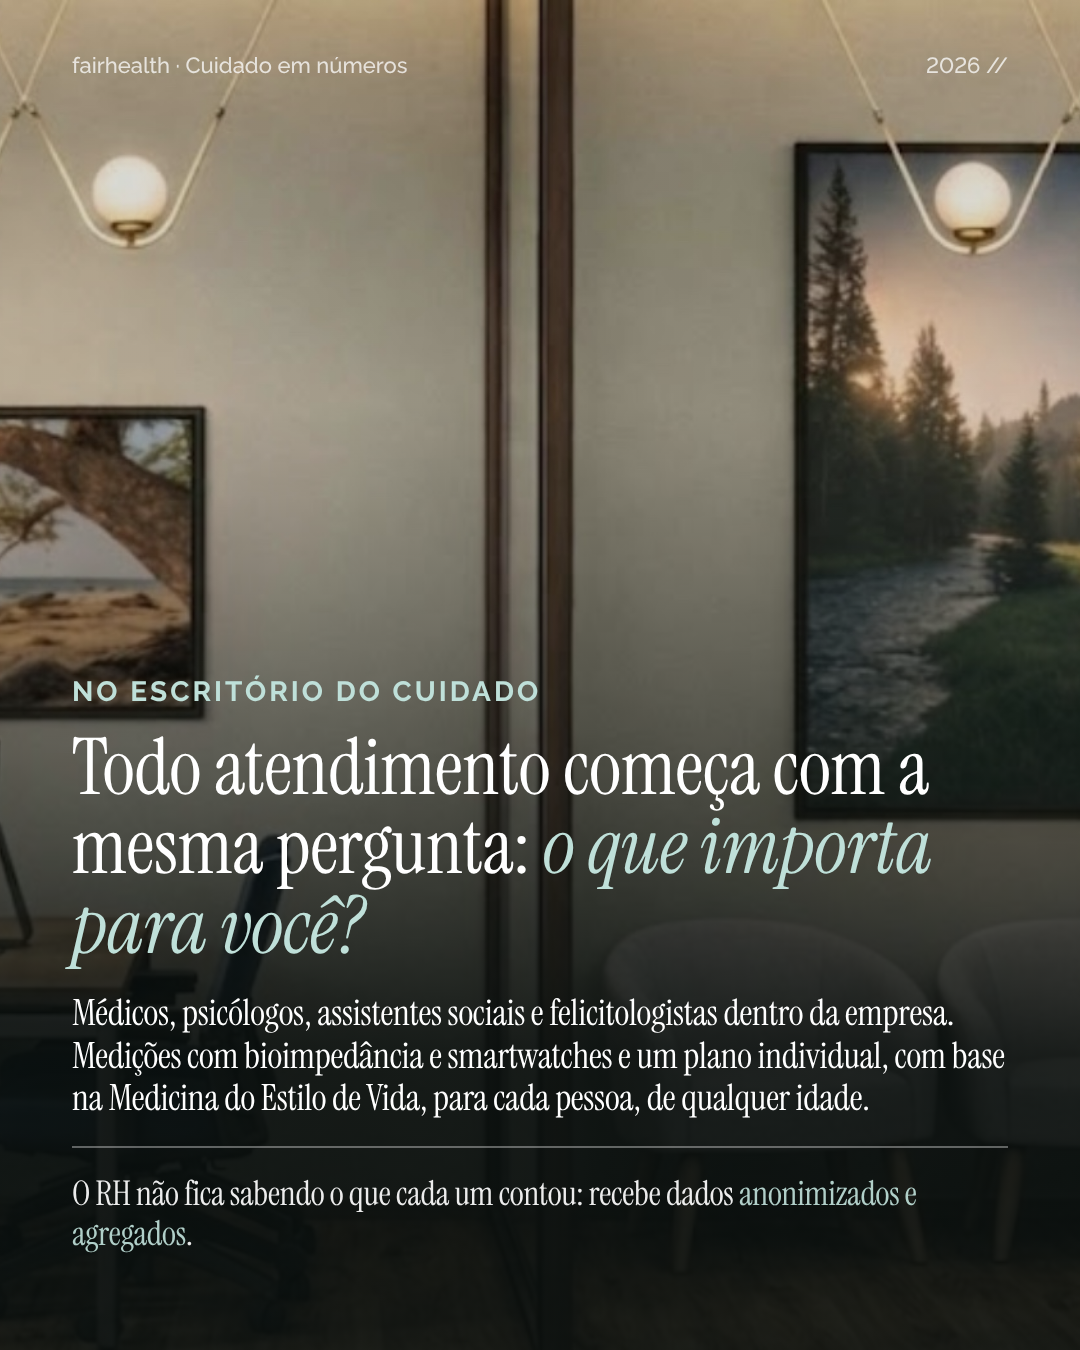
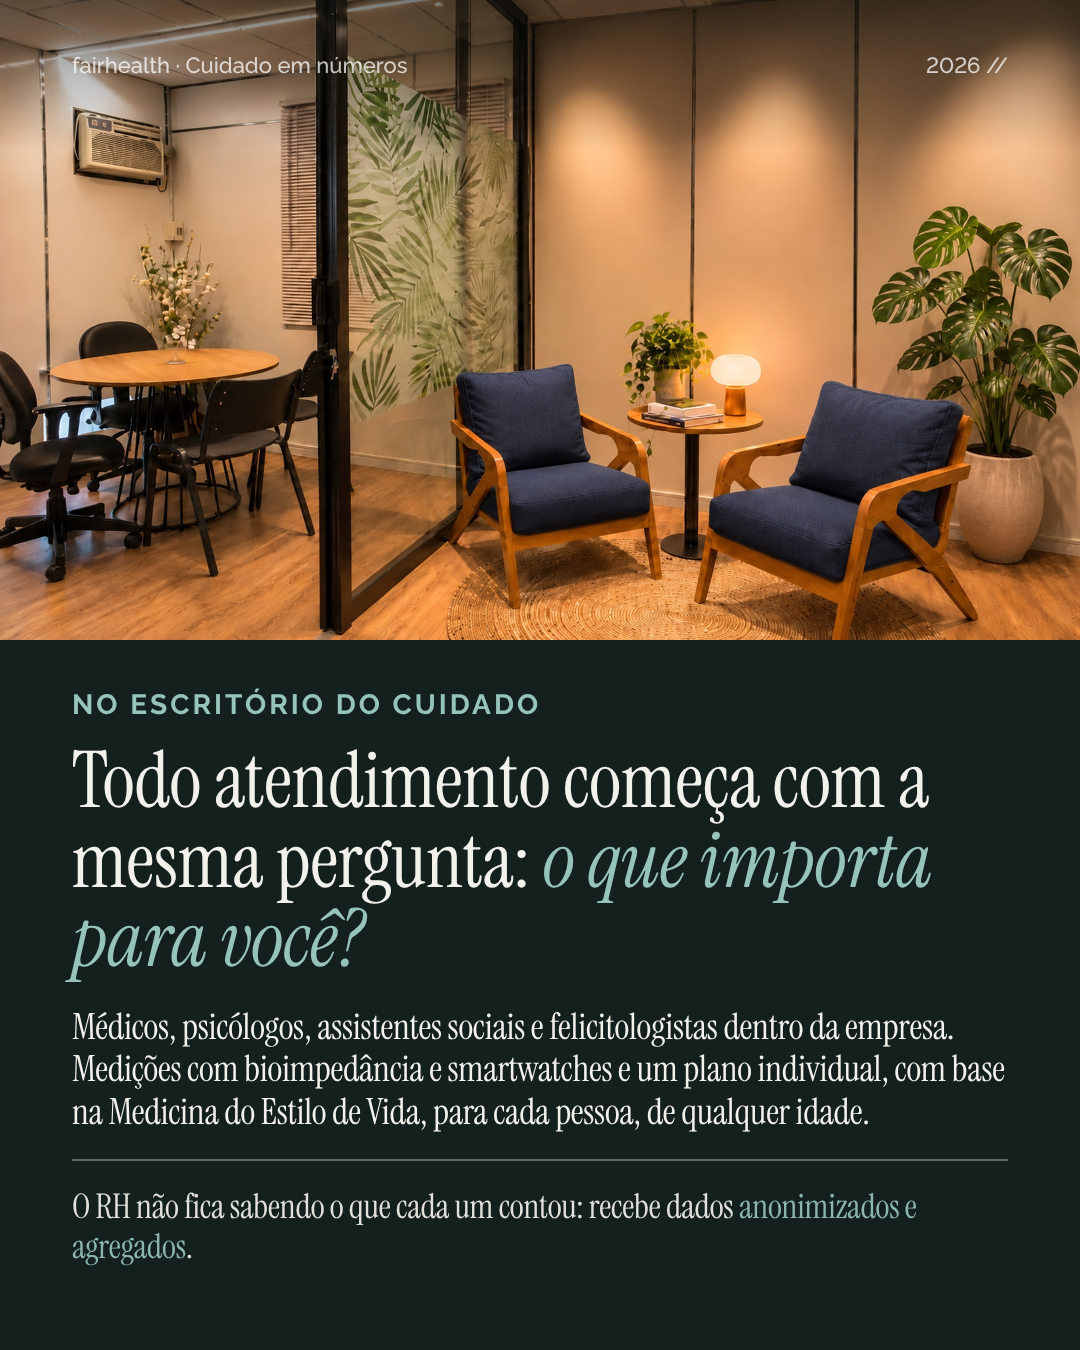
25/11 Geração Z: slide 7 com a foto real do Escritório do Cuidado numa faixa no alto
Claude-Session: https://claude.ai/code/session_01WTGmTeoCvP3mtmtt6rLzEQ

diff --git a/instagram/posts/geracao-z/slides.html b/instagram/posts/geracao-z/slides.html
@@ -111,10 +111,13 @@
   </div>
 </section>
 
-<!-- 7 · PRODUTO (16/11: junta o 7 e a parte do RH do 8; bioimpedância, smartwatches e MEV dentro do Escritório) -->
-<section class="slide gz foto" id="gz-07" style="background-image:url(../../marca/espaco/sala-atendimento-e-espera.jpg)">
-  <div class="topo"><span>fairhealth · Cuidado em números</span><span>2026 //</span></div>
-  <div class="bloco" style="bottom:96px">
+<!-- 7 · PRODUTO (16/11: foto real do Escritório do Cuidado, a mesma do post de 06/11, numa faixa no alto; texto em fundo escuro.
+     Junta o 7 e a parte do RH do antigo 8; bioimpedância, smartwatches e MEV dentro do Escritório) -->
+<section class="slide gz noite" id="gz-07">
+  <img src="fotos/gz-07-faixa.jpg" alt="Escritório do Cuidado: duas poltronas azuis, mesinha com abajur e planta e, atrás do vidro, uma mesa redonda" style="position:absolute;left:0;top:0;width:1080px;height:640px;object-fit:cover">
+  <div style="position:absolute;left:0;top:0;width:1080px;height:150px;background:linear-gradient(rgba(10,16,15,.55),rgba(10,16,15,0))"></div>
+  <div class="topo" style="color:#fff"><span>fairhealth · Cuidado em números</span><span>2026 //</span></div>
+  <div class="bloco" style="top:690px">
     <p class="m ac" style="font-size:28px;letter-spacing:3px;text-transform:uppercase">No Escritório do Cuidado</p>
     <h2 class="s" style="font-size:78px;margin-top:22px;line-height:1.02">Todo atendimento começa com a mesma pergunta: <i class="ac">o que importa para você?</i></h2>
     <p class="s" style="font-size:36px;margin-top:26px">Médicos, psicólogos, assistentes sociais e felicitologistas dentro da empresa. Medições com bioimpedância e smartwatches e um plano individual, com base na Medicina do Estilo de Vida, para cada pessoa, de qualquer idade.</p>

diff --git a/instagram/posts/geracao-z/README.md b/instagram/posts/geracao-z/README.md
@@ -87,3 +87,9 @@ carregada) e a mulher na janela com chuva (parece imagem de IA).
 
 **Antes de publicar:** achar a origem de cada uma pelo Google Lens, baixar o original (Unsplash, Pexels ou banco pago,
 com pelo menos 1080 px de largura) e salvar em `fotos/`. As cópias recebidas têm de 736 a 1200 px e vêm do Pinterest.
+
+## Slide 7 com a foto do Escritório (16/11)
+
+A Nina não gostou do render do espaço no slide 7. Entrou a foto real do Escritório do Cuidado (a mesma do post de 06/11,
+`instagram/posts/historia-2009/fotos/espaco-nina-original.jpg`, foto da marca), numa faixa de 1080 × 640 no alto
+(`fotos/gz-07-faixa.jpg`), com o texto em fundo escuro embaixo. Em tela cheia, as poltronas ficavam atrás do texto.
